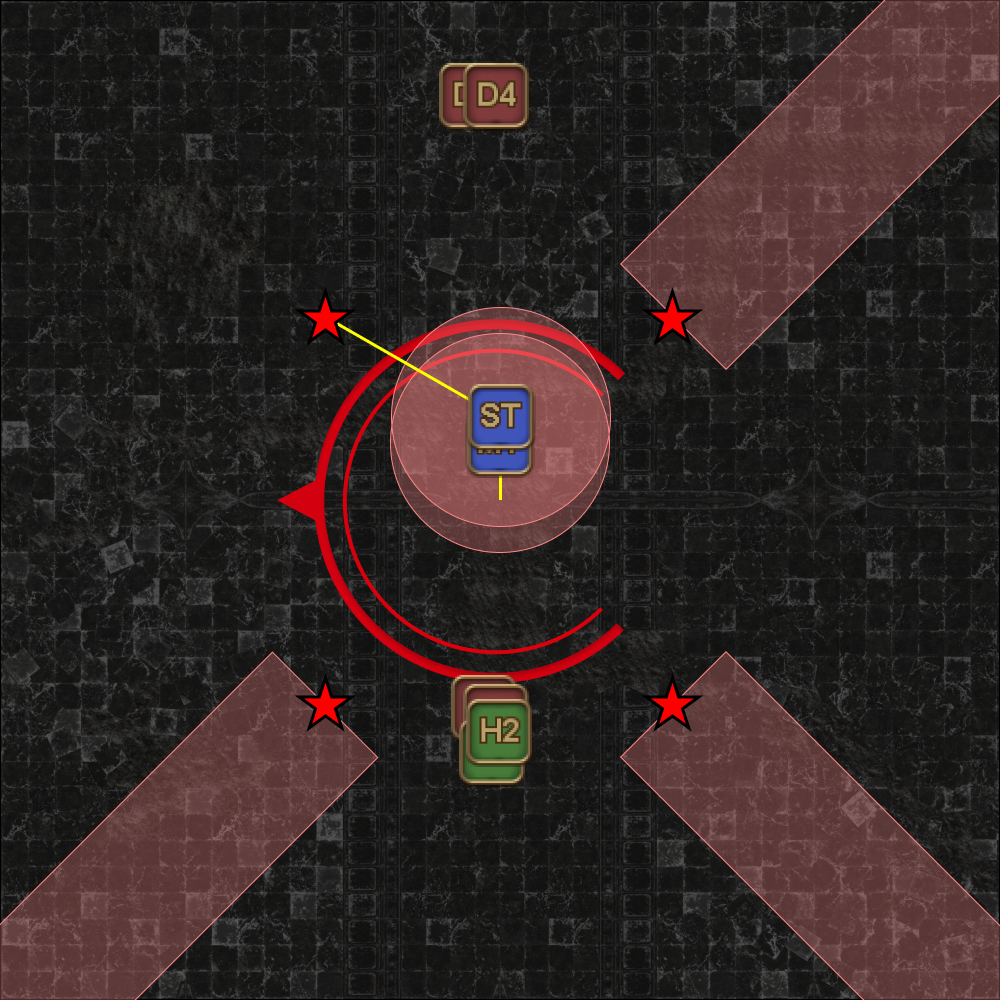
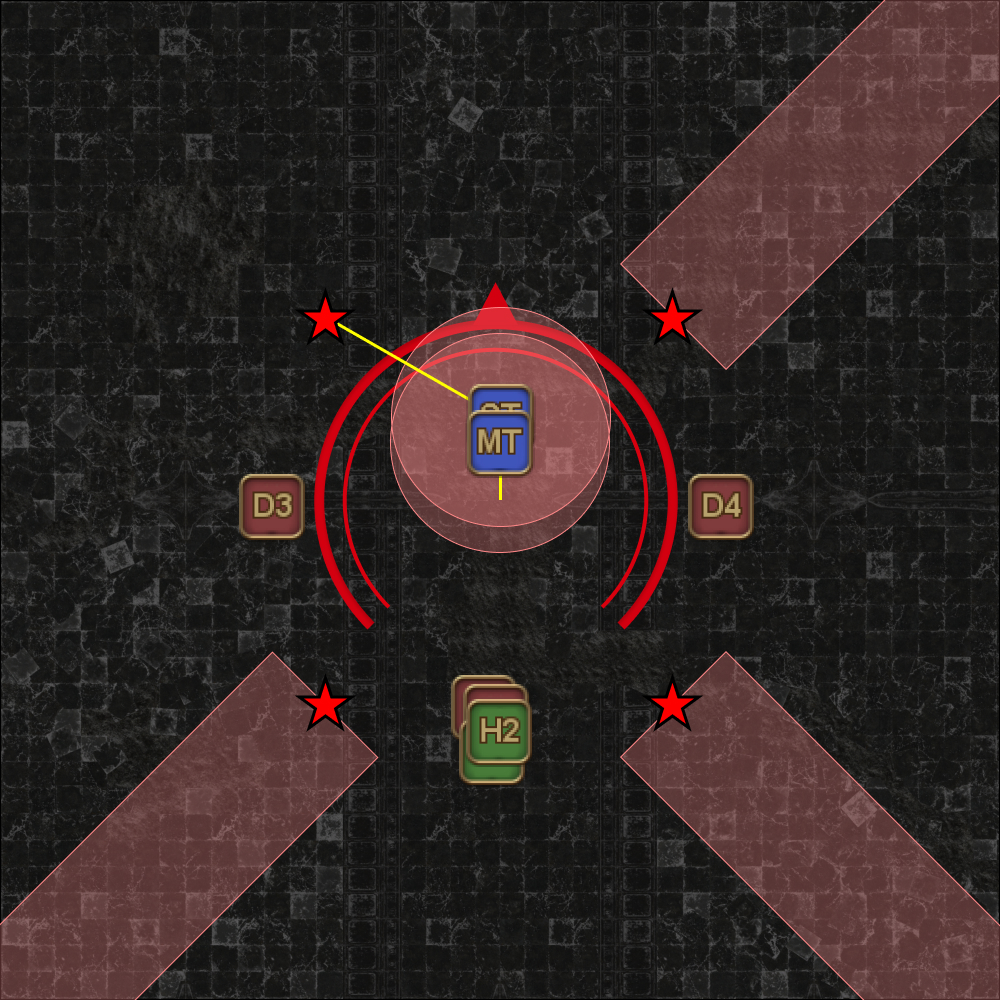
Clarify details with Soul tethers

diff --git a/ultimates/dsr/03_nidhogg/index.en.md b/ultimates/dsr/03_nidhogg/index.en.md
@@ -378,42 +378,40 @@ The easiest way to resolve this is to preposition in pairs at each tower:
 Just like before, Nidhogg clones will appear where the towers were when
 resolved.
 
-- Three of these clones will cast Geirskogul on their closest targets
-  (baited by healers and ranged DPS)
-- The last clone will attach a Soul tether to a random (non-tank) player.
-- Nidhogg also attaches a Soul tether to a random (non-tank) player.
-
 <table>
   <tr>
     <td width="50%">
-      <p><b>1.</b> Just like before, Nidhogg clones will appear where the
-      towers were when resolved.</p>
+      <p><b>1.</b> When the clones appear:</p>
       <ul>
-        <li><b>Three</b> clones will target the closest player with Geirskogul
-        (baited by the healers and ranged DPS).</li>
-        <li>The last clone will attach a Soul tether to a random (non-tank)
-        player.</li>
-        <li>Nidhogg also attached a Soul tether to a random (non-tank) player.</li>
+        <li>One clone will tether to a random (non-tank) player.</li>
+        <li>The other three clones will target the closest player with 
+        <em>Geirskogul</em> (baited by the healers and ranged DPS).</li>
       </ul>
+      <div style="background-color: #200 ; padding: 10px; border: 1px solid;">
+        <b>Note:</b> Having a tether does not necessarily mean you are not baiting <em>Geirskogul</em>, as the tether could have come from a different clone.
+      </div>
     </td>
     <td><img src="images/soul_tethers_01.jpg"></td>
   </tr>
   <tr>
     <td>
-      <p><b>2.</b> Tanks take the Soul tethers, stack under Nidhogg and use
-      their invulnerabilities.</p>
+      <p><b>2.</b> Tanks take the two tethers, stack under Nidhogg,
+      and use their invulnerabilities.</p>
       <ul>
-        <li><b>MT:</b> Take Nidhogg's Soul tether.</li>
-        <li><b>ST:</b> Take the clone's Soul tether.</li>
+        <li><b>MT:</b> Take the tether <b>from Nidhogg</b>.</li>
+        <li><b>ST:</b> Take the tether <b>from the clone</b>.</li>
       </ul>
-      <p>Everyone dodges the Geirskoguls.</p>
+      <p>Everyone dodges the <em>Geirskoguls</em>.</p>
+      <div style="background-color: #200 ; padding: 10px; border: 1px solid;">
+        <b>Note:</b> If you are tethered to <b>your own clone</b>, it will be difficult for the ST to find and take your tether. Since you are not baiting a Gierskogul, move to the side to stretch your tether to make it easier for the ST.
+      </div>
     </td>
     <td><img src="images/soul_tethers_02.jpg"></td>
   </tr>
 </table>
 
 After the Soul tethers resolve, Nidhogg will then auto-attack the MT
-**five times** before turning for one final Drachenlance (which will **always**
-point South).
+**five times** before turning for one final *Drachenlance* (which will
+**always** point South).
 
-Nidhogg then starts casting Revenge of the Horde (enrage).
+Nidhogg then starts casting *Revenge of the Horde* (enrage).
